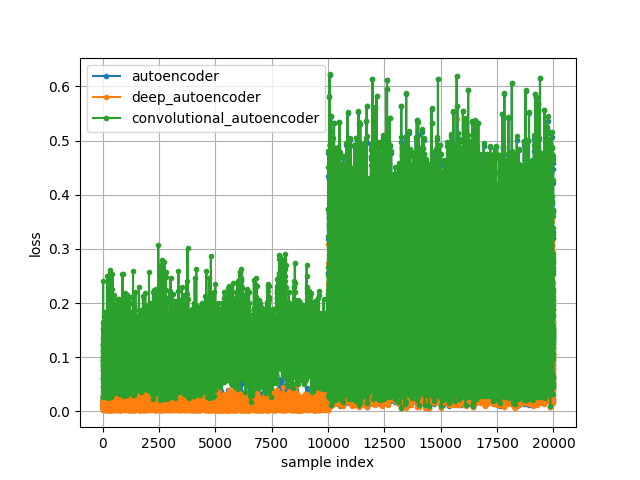
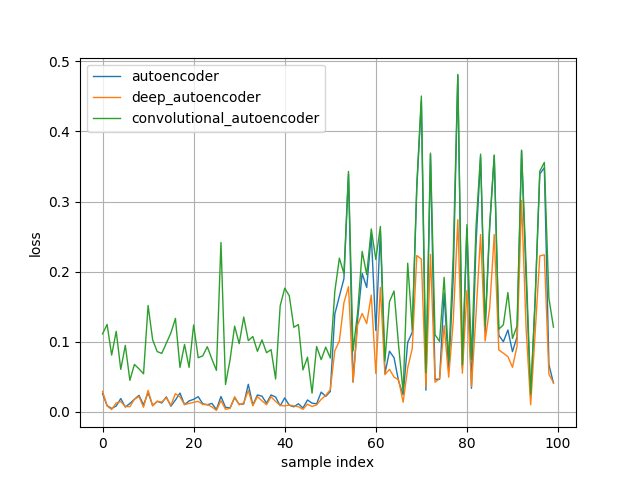
added

diff --git a/gen_dataset_images.py b/gen_dataset_images.py
@@ -1,0 +1,25 @@
+from keras.datasets import fashion_mnist, mnist
+from PIL import Image
+import numpy as np
+
+# create an image for Mnist
+(x_train, y_train), (_,_) = mnist.load_data()
+num_classes = 10
+imgs = []
+for i in range(num_classes):
+    ind = (y_train == i)
+    imgs.append(x_train[ind][0])
+img = np.concatenate(imgs, axis=-1)
+img = Image.fromarray(img)
+img.save('pictures/mnist.png')
+
+# create an image for FashionMnist
+(x_train, y_train), (_,_) = fashion_mnist.load_data()
+num_classes = 10
+imgs = []
+for i in range(num_classes):
+    ind = (y_train == i)
+    imgs.append(x_train[ind][0])
+img = np.concatenate(imgs, axis=-1)
+img = Image.fromarray(img)
+img.save('pictures/fashion_mnist.png')

diff --git a/train.py b/train.py
@@ -14,7 +14,7 @@ parser.add_argument('--optimizer', choices=['adam','sgd','adagrad'], default='ad
 parser.add_argument('--loss', choices=['mean_squared_error', 'binary_crossentropy'], default='mean_squared_error')
 parser.add_argument('--epochs', type=int, default=20)
 parser.add_argument('--batch_size', type=int, default=64)
-parser.add_argument('--test_samples', type=int, default=500)
+parser.add_argument('--test_samples', type=int, default=50)
 parser.add_argument('--result_dir', default=curdir)
 
 def main(args):

diff --git a/README.md b/README.md
@@ -1,1 +1,17 @@
 # AnomalyDetectionUsingAutoencoder
+
+## Overview
+
+We tried comparing three models: (1) autoencoder, (2) deep autoencoder, and (3) convolutional autoencoder in terms of capability of anomaly detection.
+
+In anomaly detection using autoencoders, we train an autoencoder on only normal
+dataset. So, when an input data that has different features from normal dataset are fed to
+the model, the corresponding reconstruction error will increase. We call such input data "abnormal data" here.
+
+## Model Architecture
+
+### autoencoder
+### deep autoencoder
+### convolutional autoencoder
+
+## Evaluation Procedure
